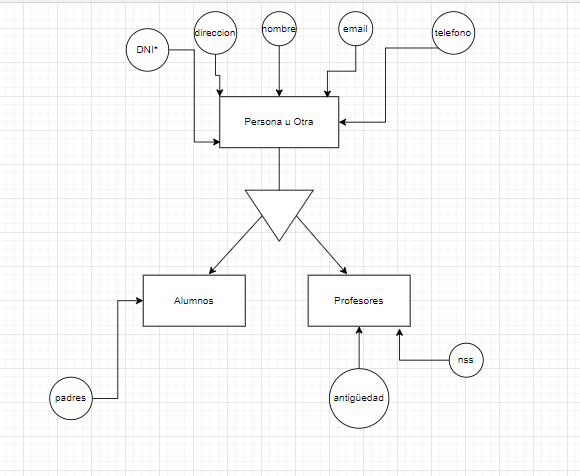
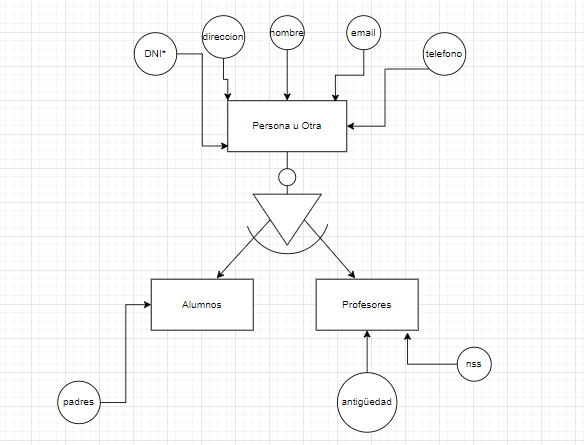
Add t2

Changed region(s): [[0.0621, 0.0, 0.869, 0.964], [0.7138, 0.818, 0.7448, 0.8472], [0.6207, 0.964, 0.6517, 0.9933]]

diff --git a/bbdd/t2/P2-EntidadRelacion/T2-ModeloER.md b/bbdd/t2/P2-EntidadRelacion/T2-ModeloER.md
@@ -1,3 +1,31 @@
-- ![Imagen 1:](/Base_de_Datos/img/ER-1.jpg)
-- ![Imagen 2:](/Base_de_Datos/img/ER-2.jpg)
-- ![Imagen 3:](/Base_de_Datos/img/ER-3.jpg)
+## Práctica 2 Modelo Entidad Relación
+### Apartado 1
+#### En nuestro centro educativo nos centramos en las personas, ya sean alumnos, profesores u otras.
+Nos gusta conocer a todas las personas por su nombre y guardamos celosamente los datos de contacto (dirección, tlf, email y DNI).
+Así mismo, de nuestros alumnos almacenamos el nombre y teléfono de sus padres, y de los profesores su número de la seguridad social y antigüedad en el cargo.
+![Imagen 1:](/Base_de_Datos/img/ER1.png)
+### Apartado 2
+#### Como somos un centro moderno permitimos la matriculación parcial por módulos de nuestros alumnos.
+Cada módulo tiene un código de curso y un número de horas.
+![Imagen 2:](/Base_de_Datos/img/ER2.png)
+### Apartado 3 
+#### Cada módulo será impartido por un profesor que será el encargado de hacer el seguimiento de faltas, retrasos y la evaluación de los progresos (nota) de cada alumno.
+![Imagen 3:](/Base_de_Datos/img/ER3.png)
+### Apartado 4
+#### Los alumnos estararán asociados a un grupo (p.e. DAW1) que pertenece a un ciclo formativo.
+![Imagen 4:](/Base_de_Datos/img/ER4.png)
+### Apartado 5
+#### Los grupos se componen de módulos y se imparten en aulas. Algunos módulos se imparten en grupos distintos.
+![Imagen 5:](/Base_de_Datos/img/ER5.png)
+### Apartado 6
+#### Los módulos pertenecen a alguno de los ciclos formativos (DAW, DAM, SMR, ASIR, etc.).
+![Imagen 6:](/Base_de_Datos/img/ER6.png)
+### Apartado 7
+#### Los grupos también pertenecen a los mismos ciclos.
+![Imagen 7:](/Base_de_Datos/img/ER7.png)
+### Apartado 8
+#### Los módulos rellenan horario total ocupando horas completas organizadas con código L1 para lunes a primera o X4 para miércoles a cuarta.
+![Imagen 8:](/Base_de_Datos/img/ER8.png)
+### Apartado 9
+#### Úne los apartados anteriores en un único modelo ER completo.
+![Imagen 9:](/Base_de_Datos/img/ER9.png)
